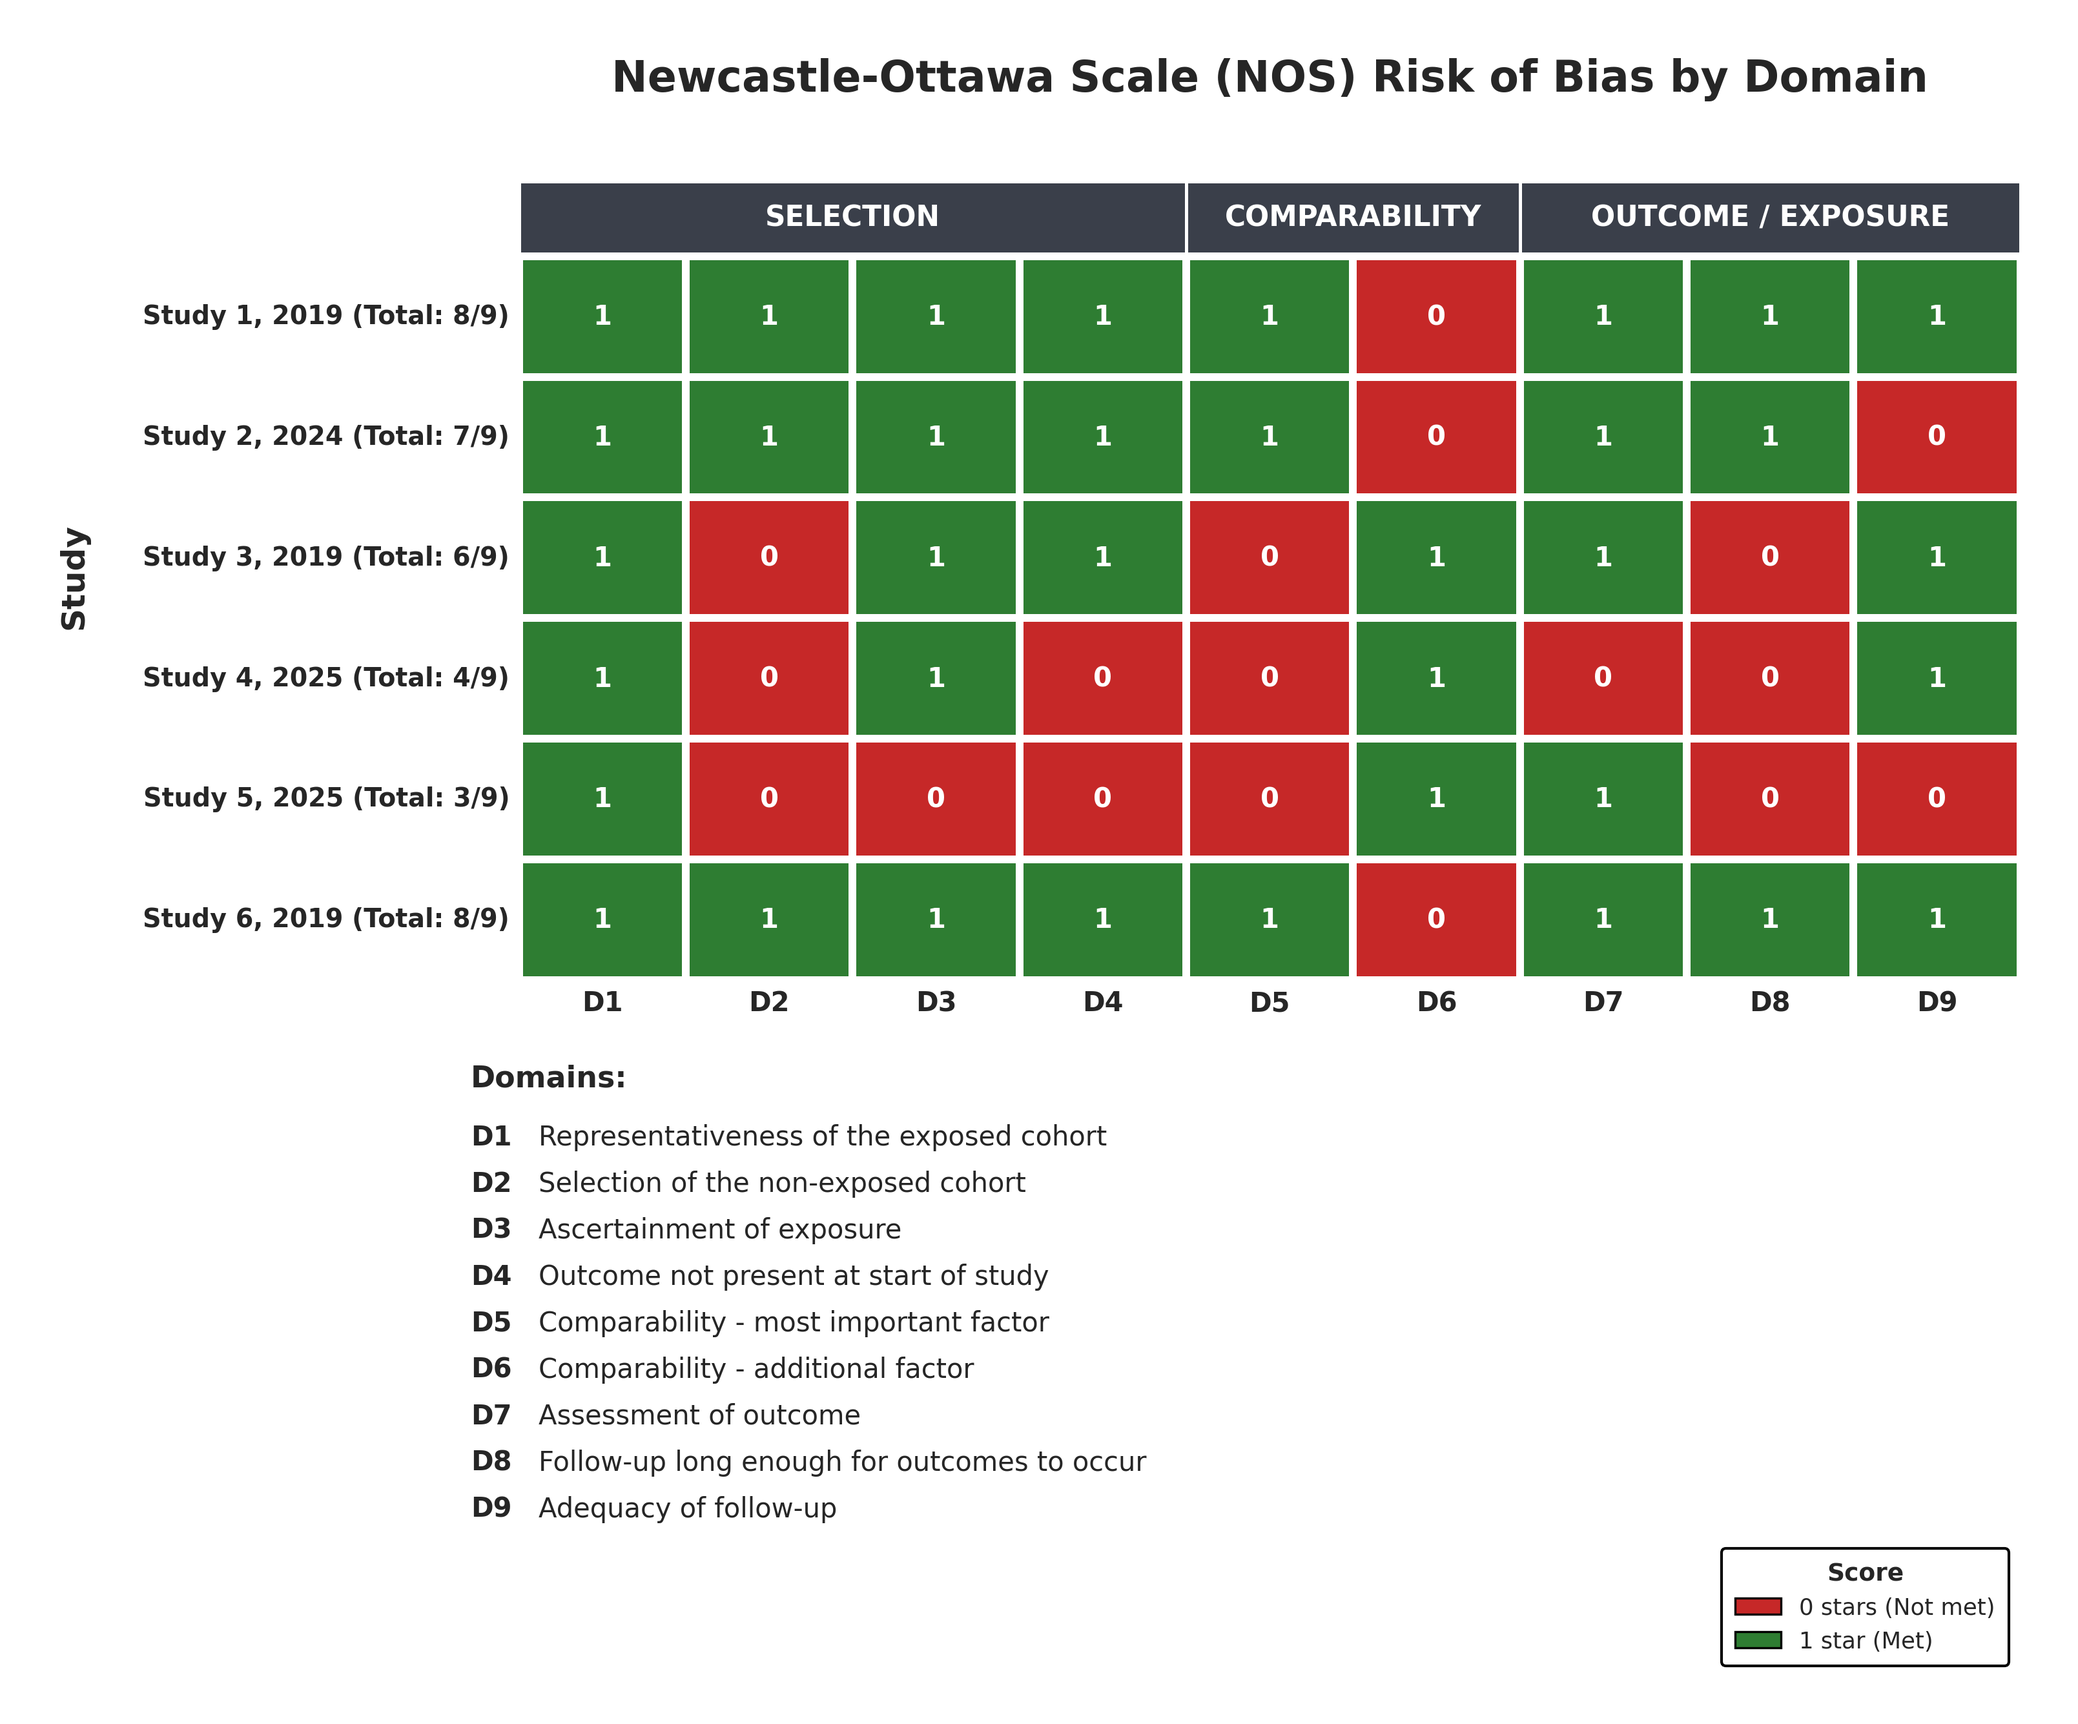
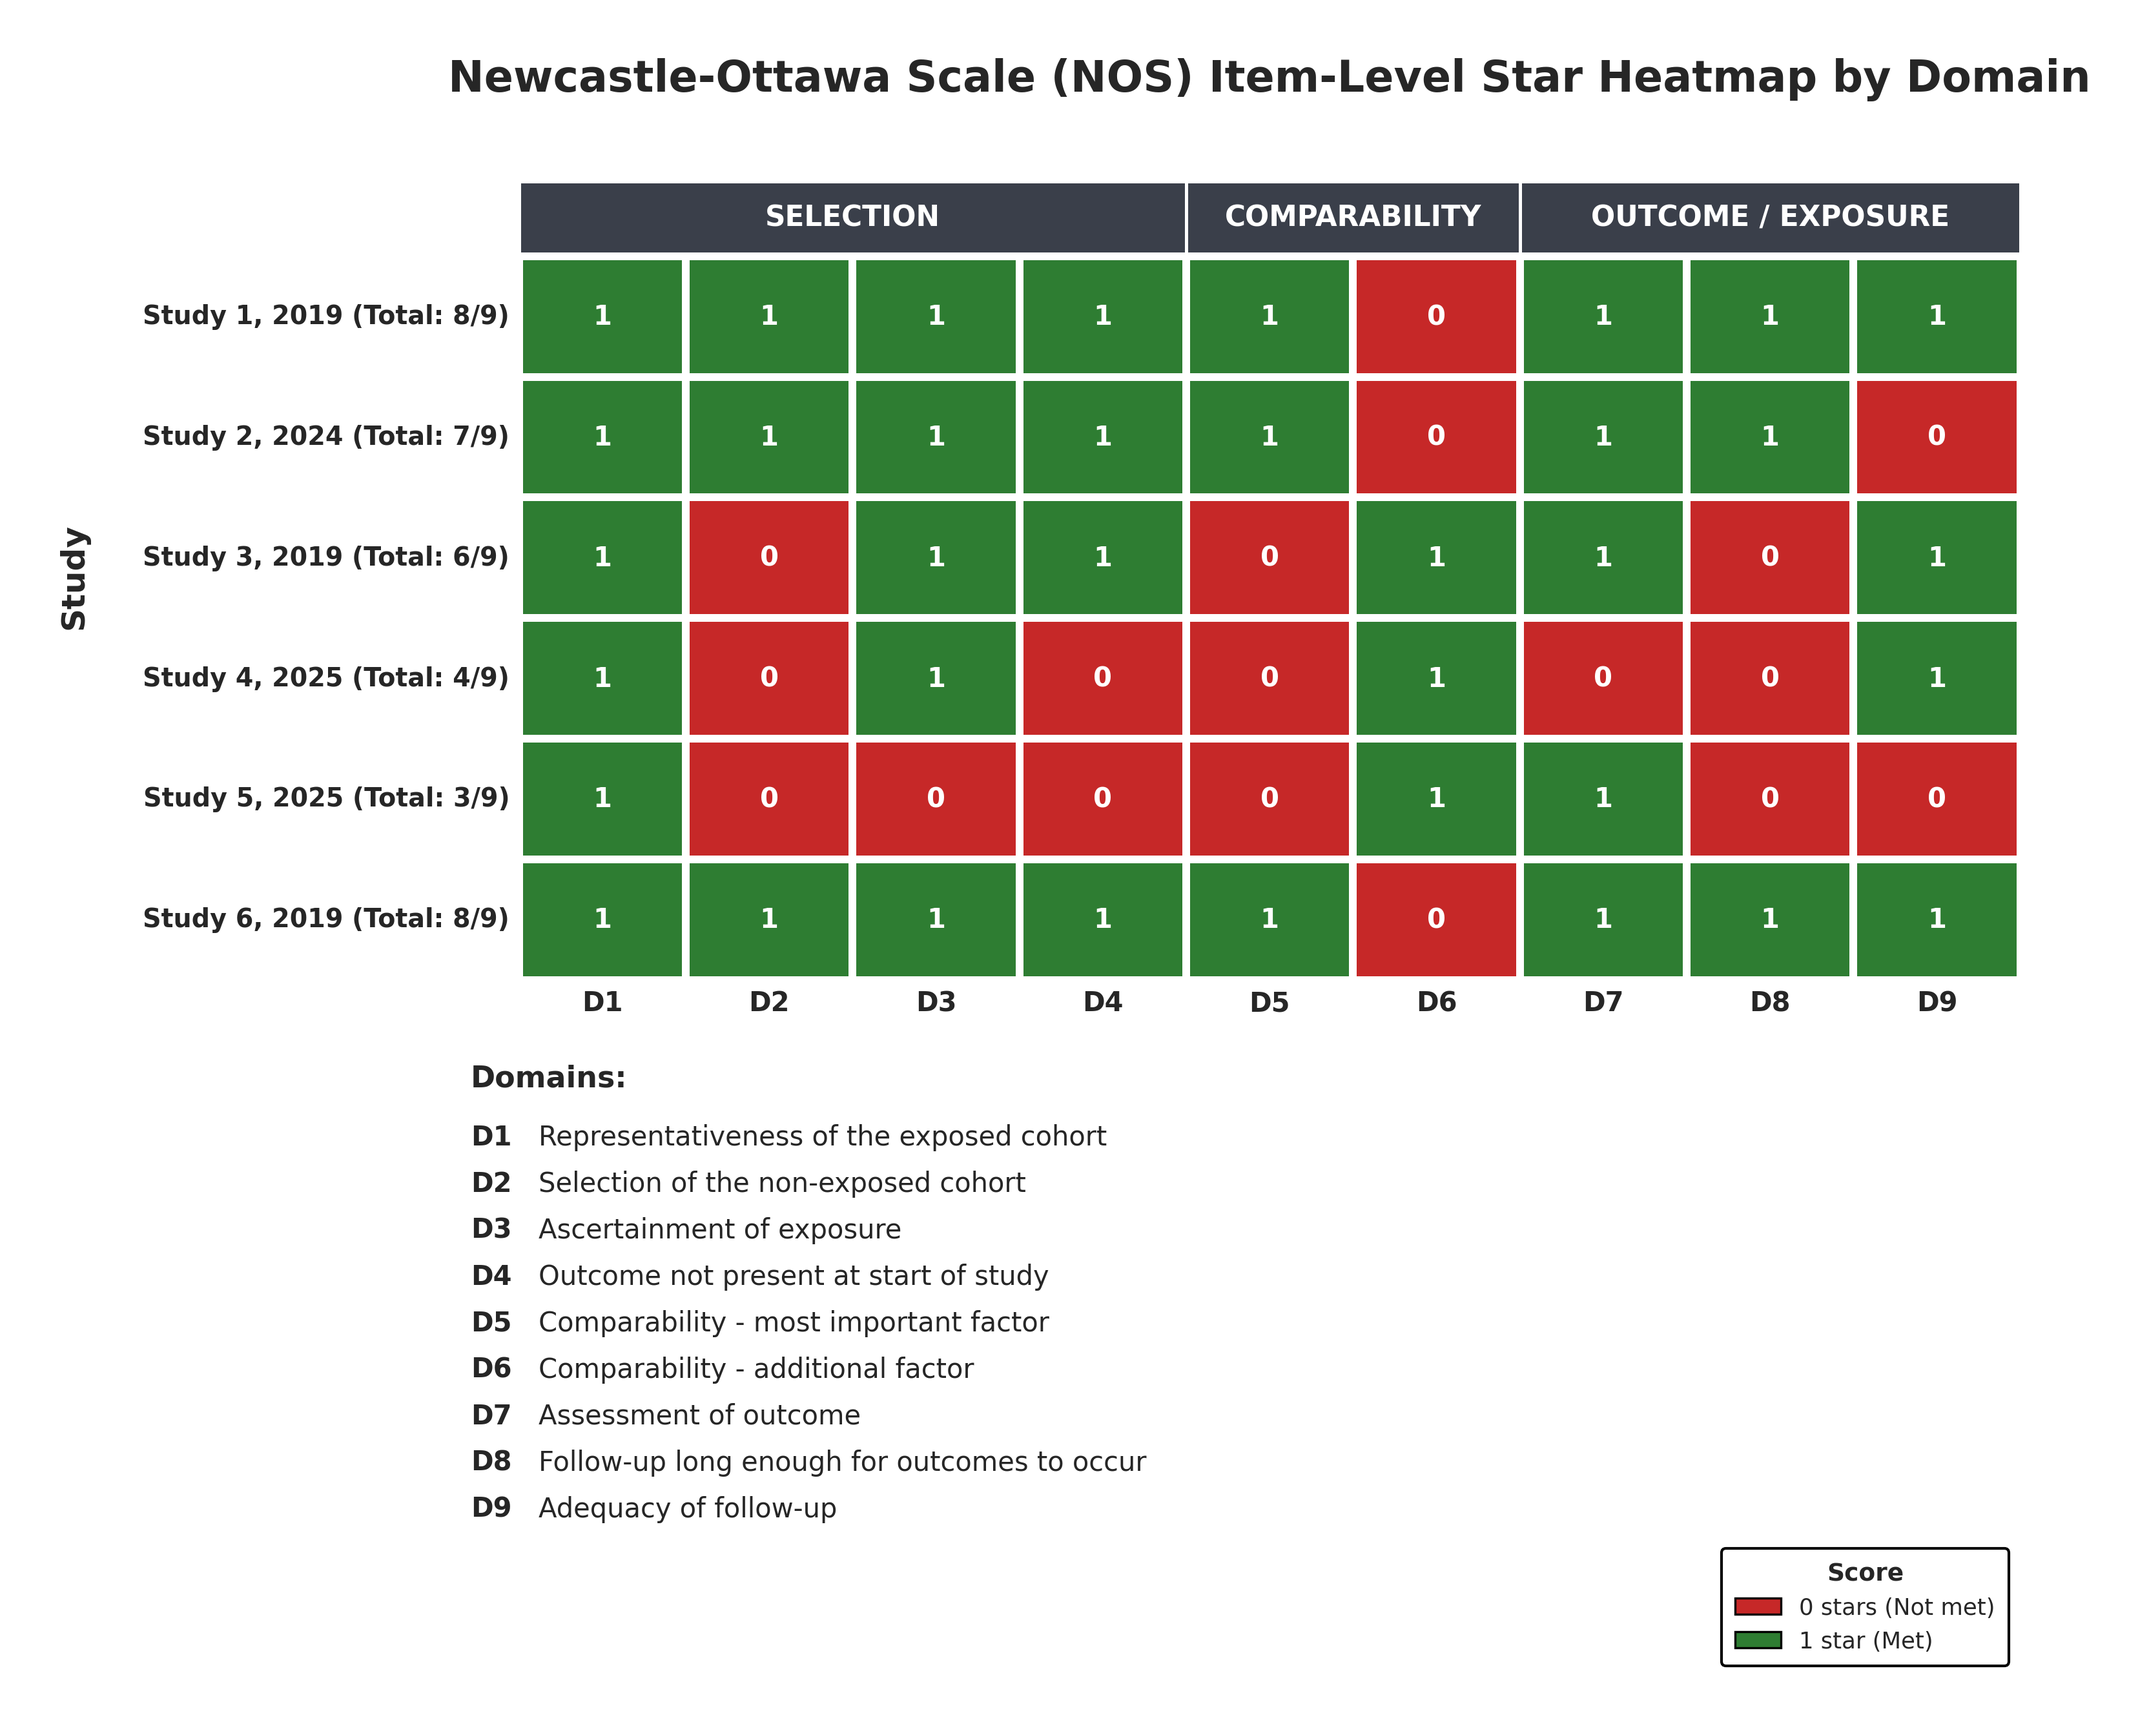
item heatmap title fix, regenerate stale dot profile plot

diff --git a/nos_tlplot.py b/nos_tlplot.py
@@ -529,7 +529,7 @@ def plot_item_heatmap(df: pd.DataFrame, output_file: str, theme: str = "traffic_
                 fontsize=10.5, fontweight="bold", color="white", zorder=6)
     ax.set_ylim(n, -0.7)
     ax.xaxis.grid(False)
-    ax.set_title("Newcastle-Ottawa Scale (NOS) Risk of Bias by Domain", fontsize=16, pad=30)
+    ax.set_title("Newcastle-Ottawa Scale (NOS) Item-Level Star Heatmap by Domain", fontsize=16, pad=30)
     ax.tick_params(axis='x', which='both', length=0)
 
     ax.set_yticks([i + 0.5 for i in range(n)])
@@ -562,7 +562,7 @@ def plot_item_heatmap(df: pd.DataFrame, output_file: str, theme: str = "traffic_
 
     plt.savefig(output_file, dpi=300, bbox_inches='tight')
     plt.close()
-    print(f"✅ Domain heatmap plot saved to {output_file}")
+    print(f"✅ Item heatmap plot saved to {output_file}")
 
 def plot_dot_profile(df: pd.DataFrame, output_file: str, theme: str = "traffic_light"):
     colors_map = get_theme_colors(theme)
